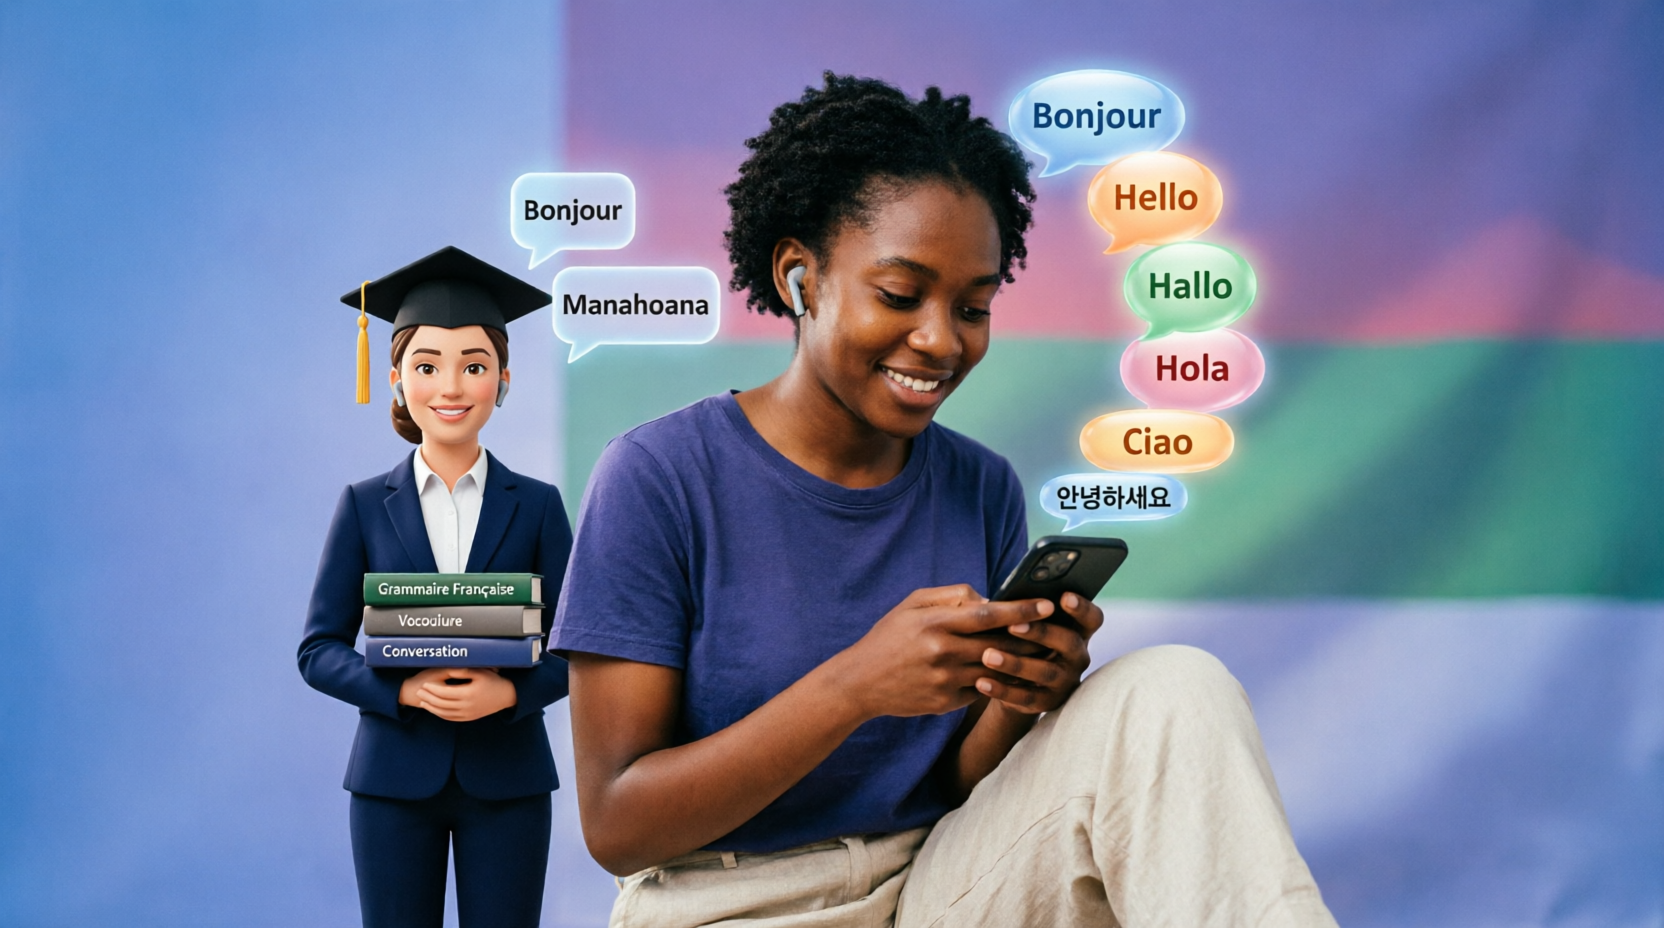
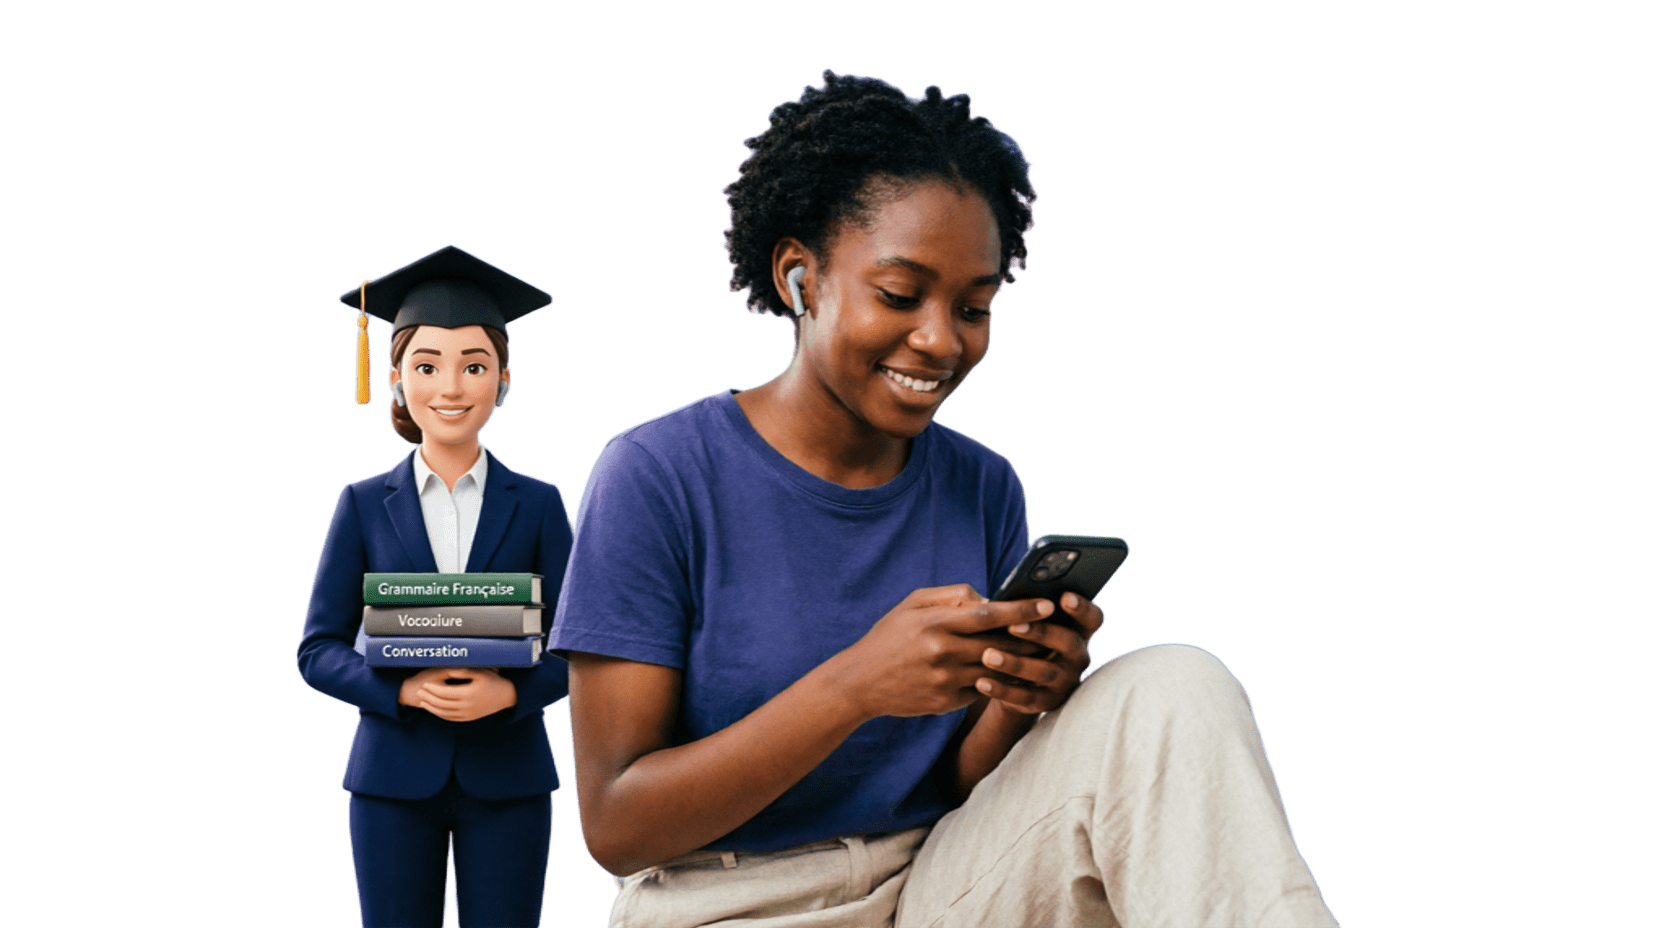
feat: Header de progression flottant autonome avec rafraîchissement temps réel

diff --git a/src/app.js b/src/app.js
@@ -196,6 +196,16 @@ document.getElementById('theme-toggle')?.addEventListener('click', () => {
 // ═══════════════════════════════════════════════════════════
 
 async function renderHome() {
+  // ✅ Supprimer le header de progression quand on revient à l'accueil
+  const progressHeader = document.getElementById('floating-progress-header');
+  if (progressHeader) progressHeader.remove();
+
+  // Arrêter l'intervalle de rafraîchissement
+  if (window._progressHeaderInterval) {
+    clearInterval(window._progressHeaderInterval);
+    window._progressHeaderInterval = null;
+  }
+
   const main = document.getElementById('app');
   main.innerHTML = '<div style="text-align:center; padding:2rem;">Mamakiana...</div>';
 
@@ -711,6 +721,9 @@ async function renderLesson() {
   const main = document.getElementById('app');
   main.innerHTML = '<div style="text-align:center; padding:2rem;">Chargement de la leçon...</div>';
 
+  // ✅ Afficher le header de progression flottant (uniquement hors accueil)
+renderProgressHeader();
+
   try {
 
     // À ajouter au début de chaque fonction de vue (sauf renderHome)
@@ -888,6 +901,9 @@ window.addEventListener('load', warmUpTTS);
 async function renderPractice() {
   const main = document.getElementById('app');
   main.innerHTML = '<div style="text-align:center; padding:2rem;">Miomana ny session...</div>';
+
+  // ✅ Afficher le header de progression flottant (uniquement hors accueil)
+renderProgressHeader();
 
   try {
     // ✅ Supprimer les boutons flottants de l'accueil
@@ -1242,6 +1258,9 @@ async function renderDialogues() {
   const main = document.getElementById('app');
   main.innerHTML = '<div style="text-align:center; padding:2rem;">Chargement des dialogues...</div>';
 
+  // ✅ Afficher le header de progression flottant (uniquement hors accueil)
+renderProgressHeader();
+
   try {
 
     // À ajouter au début de chaque fonction de vue (sauf renderHome)
@@ -1367,6 +1386,8 @@ async function renderDialogues() {
 async function renderRolePlay() {
   const main = document.getElementById('app');
   main.innerHTML = '<div style="text-align:center; padding:2rem;">Mamakiana ny Role Play...</div>';
+
+  renderProgressHeader();
 
   try {
     const unitId = currentTheme;
@@ -1639,6 +1660,8 @@ async function renderRolePlay() {
 async function renderChallenge() {
   const main = document.getElementById('app');
   main.innerHTML = '<div style="text-align:center; padding:2rem;">Miomana ny fanamby...</div>';
+
+  renderProgressHeader();
 
   try {
     const unitId = currentTheme;
@@ -2182,42 +2205,158 @@ async function renderThemeDetail() {
 
 
 // ✅ HEADER DE PROGRESSION FLOTTANT (Pour Leçons, Pratique, Dialogues)
+// ✅ HEADER DE PROGRESSION FLOTTANT - Version autonome (sans dépendance externe)
 function renderProgressHeader() {
   // Ne pas afficher sur la page d'accueil
-  if (window.location.hash === '#' || window.location.hash === '#/') return;
+  if (window.location.hash === '#' || window.location.hash === '#/' || window.location.hash === '') return;
 
-  const existingHeader = document.getElementById('floating-progress-header');
-  if (existingHeader) return;
+  // Supprimer l'ancien s'il existe (pour éviter les doublons)
+  const oldHeader = document.getElementById('floating-progress-header');
+  if (oldHeader) oldHeader.remove();
 
   const header = document.createElement('div');
   header.id = 'floating-progress-header';
   header.style.cssText = `
     position: fixed;
-    top: 60px; /* Juste sous le header principal */
+    top: 60px;
     left: 0;
     right: 0;
-    background: var(--ds-color-surface);
-    border-bottom: 1px solid var(--ds-color-border);
-    padding: 8px 1rem;
+    background: linear-gradient(135deg, var(--ds-color-surface) 0%, var(--ds-color-surface-2) 100%);
+    border-bottom: 2px solid var(--ds-color-primary);
+    padding: 10px 1rem;
     z-index: 999;
     display: flex;
     justify-content: space-around;
     align-items: center;
-    font-size: 0.85rem;
-    font-weight: 600;
-    box-shadow: var(--ds-shadow-sm);
+    font-size: 0.9rem;
+    font-weight: 700;
+    box-shadow: 0 4px 12px rgba(0,0,0,0.15);
+    animation: slideDown 0.4s ease-out;
+    backdrop-filter: blur(10px);
   `;
 
-  // Récupérer les données de progression (à adapter selon votre objet gamification)
-  const profile = JSON.parse(localStorage.getItem('dagospeak:profile') || '{"xp": 0, "level": "A0"}');
+  // ✅ LECTURE DIRECTE DU LOCALSTORAGE (source de vérité)
+  const getProfileData = () => {
+    try {
+      // Essayer plusieurs clés possibles selon votre implémentation
+      const profile = JSON.parse(localStorage.getItem('dagospeak:profile') || '{}');
+      const xp = profile.xp || 0;
+      const level = profile.level || 'A0';
+      const streak = profile.streak || 0;
+      const badges = profile.badges || [];
+
+      // Calculer le pourcentage de progression
+      const journeys = JSON.parse(localStorage.getItem('dagospeak:completedJourneys') || '{"lessons":[],"practices":[],"dialogues":[],"roleplays":[],"challenges":[]}');
+      const completedCount = Object.values(journeys).reduce((sum, arr) => sum + arr.length, 0);
+      const totalCount = 25; // 5 thèmes × 5 types de parcours
+      const percentage = Math.round((completedCount / totalCount) * 100);
+
+      return { xp, level, streak, badges, percentage };
+    } catch (e) {
+      return { xp: 0, level: 'A0', streak: 0, badges: [], percentage: 0 };
+    }
+  };
+
+  const data = getProfileData();
 
   header.innerHTML = `
-    <span style="color: var(--ds-color-accent);">🔥 Série: 3</span>
-    <span style="color: var(--ds-color-primary);">⭐ ${profile.xp || 0} XP</span>
-    <span style="color: var(--ds-color-success);">🏆 Niveau ${profile.level || 'A0'}</span>
+    <div style="display:flex; align-items:center; gap:4px; color: var(--ds-color-accent);">
+      <span style="font-size:1.2rem;">🔥</span>
+      <span>${data.streak}</span>
+    </div>
+    <div style="display:flex; align-items:center; gap:4px; color: var(--ds-color-primary);">
+      <span style="font-size:1.2rem;">⭐</span>
+      <span>${data.xp} XP</span>
+    </div>
+    <div style="display:flex; align-items:center; gap:4px; color: var(--ds-color-success);">
+      <span style="font-size:1.2rem;"></span>
+      <span>${data.level}</span>
+    </div>
+    <div style="display:flex; align-items:center; gap:4px; color: var(--ds-color-text);">
+      <span style="font-size:1.2rem;">📊</span>
+      <span>${data.percentage}%</span>
+    </div>
+    ${data.badges.length > 0 ? `
+    <div style="display:flex; align-items:center; gap:4px; color: var(--ds-color-accent);">
+      <span style="font-size:1.2rem;">🎖</span>
+      <span>${data.badges.length}</span>
+    </div>
+    ` : ''}
   `;
 
   document.body.appendChild(header);
+
+  // ✅ RAFRAÎCHISSEMENT AUTOMATIQUE TOUTES LES 2 SECONDES
+  // (pour capter les changements d'XP sans dépendre d'événements)
+  if (!window._progressHeaderInterval) {
+    window._progressHeaderInterval = setInterval(() => {
+      const currentHeader = document.getElementById('floating-progress-header');
+      if (!currentHeader) {
+        // Si le header a été supprimé (changement de page), arrêter l'intervalle
+        clearInterval(window._progressHeaderInterval);
+        window._progressHeaderInterval = null;
+        return;
+      }
+
+      // Re-lire les données et mettre à jour
+      const newData = getProfileData();
+      currentHeader.innerHTML = `
+        <div style="display:flex; align-items:center; gap:4px; color: var(--ds-color-accent);">
+          <span style="font-size:1.2rem;">🔥</span>
+          <span>${newData.streak}</span>
+        </div>
+        <div style="display:flex; align-items:center; gap:4px; color: var(--ds-color-primary);">
+          <span style="font-size:1.2rem;">⭐</span>
+          <span>${newData.xp} XP</span>
+        </div>
+        <div style="display:flex; align-items:center; gap:4px; color: var(--ds-color-success);">
+          <span style="font-size:1.2rem;">🏆</span>
+          <span>${newData.level}</span>
+        </div>
+        <div style="display:flex; align-items:center; gap:4px; color: var(--ds-color-text);">
+          <span style="font-size:1.2rem;">📊</span>
+          <span>${newData.percentage}%</span>
+        </div>
+        ${newData.badges.length > 0 ? `
+        <div style="display:flex; align-items:center; gap:4px; color: var(--ds-color-accent);">
+          <span style="font-size:1.2rem;"></span>
+          <span>${newData.badges.length}</span>
+        </div>
+        ` : ''}
+      `;
+    }, 2000);
+  }
+
+  // ✅ ÉCOUTER LE BUS D'ÉVÉNEMENTS EXISTANT (si disponible)
+  if (typeof bus !== 'undefined') {
+    const refreshOnEvent = () => {
+      const currentHeader = document.getElementById('floating-progress-header');
+      if (currentHeader) {
+        // Forcer un rafraîchissement immédiat
+        const newData = getProfileData();
+        currentHeader.querySelector('div:nth-child(2) span:last-child').textContent = `${newData.xp} XP`;
+        currentHeader.querySelector('div:nth-child(4) span:last-child').textContent = `${newData.percentage}%`;
+      }
+    };
+
+    // Écouter les événements de gamification existants
+    bus.on('gamification:xp-added', refreshOnEvent);
+    bus.on('gamification:level-up', refreshOnEvent);
+    bus.on('gamification:badge-earned', refreshOnEvent);
+  }
+}
+
+// ✅ CSS pour l'animation (à ajouter une seule fois)
+if (!document.getElementById('progress-header-style')) {
+  const style = document.createElement('style');
+  style.id = 'progress-header-style';
+  style.innerHTML = `
+    @keyframes slideDown {
+      from { transform: translateY(-100%); opacity: 0; }
+      to { transform: translateY(0); opacity: 1; }
+    }
+  `;
+  document.head.appendChild(style);
 }
 
 // ✅ BOUTONS FLOTTANTS "COMMENCER" ET "GUIDE" (Au-dessus du Teacher Avatar)
